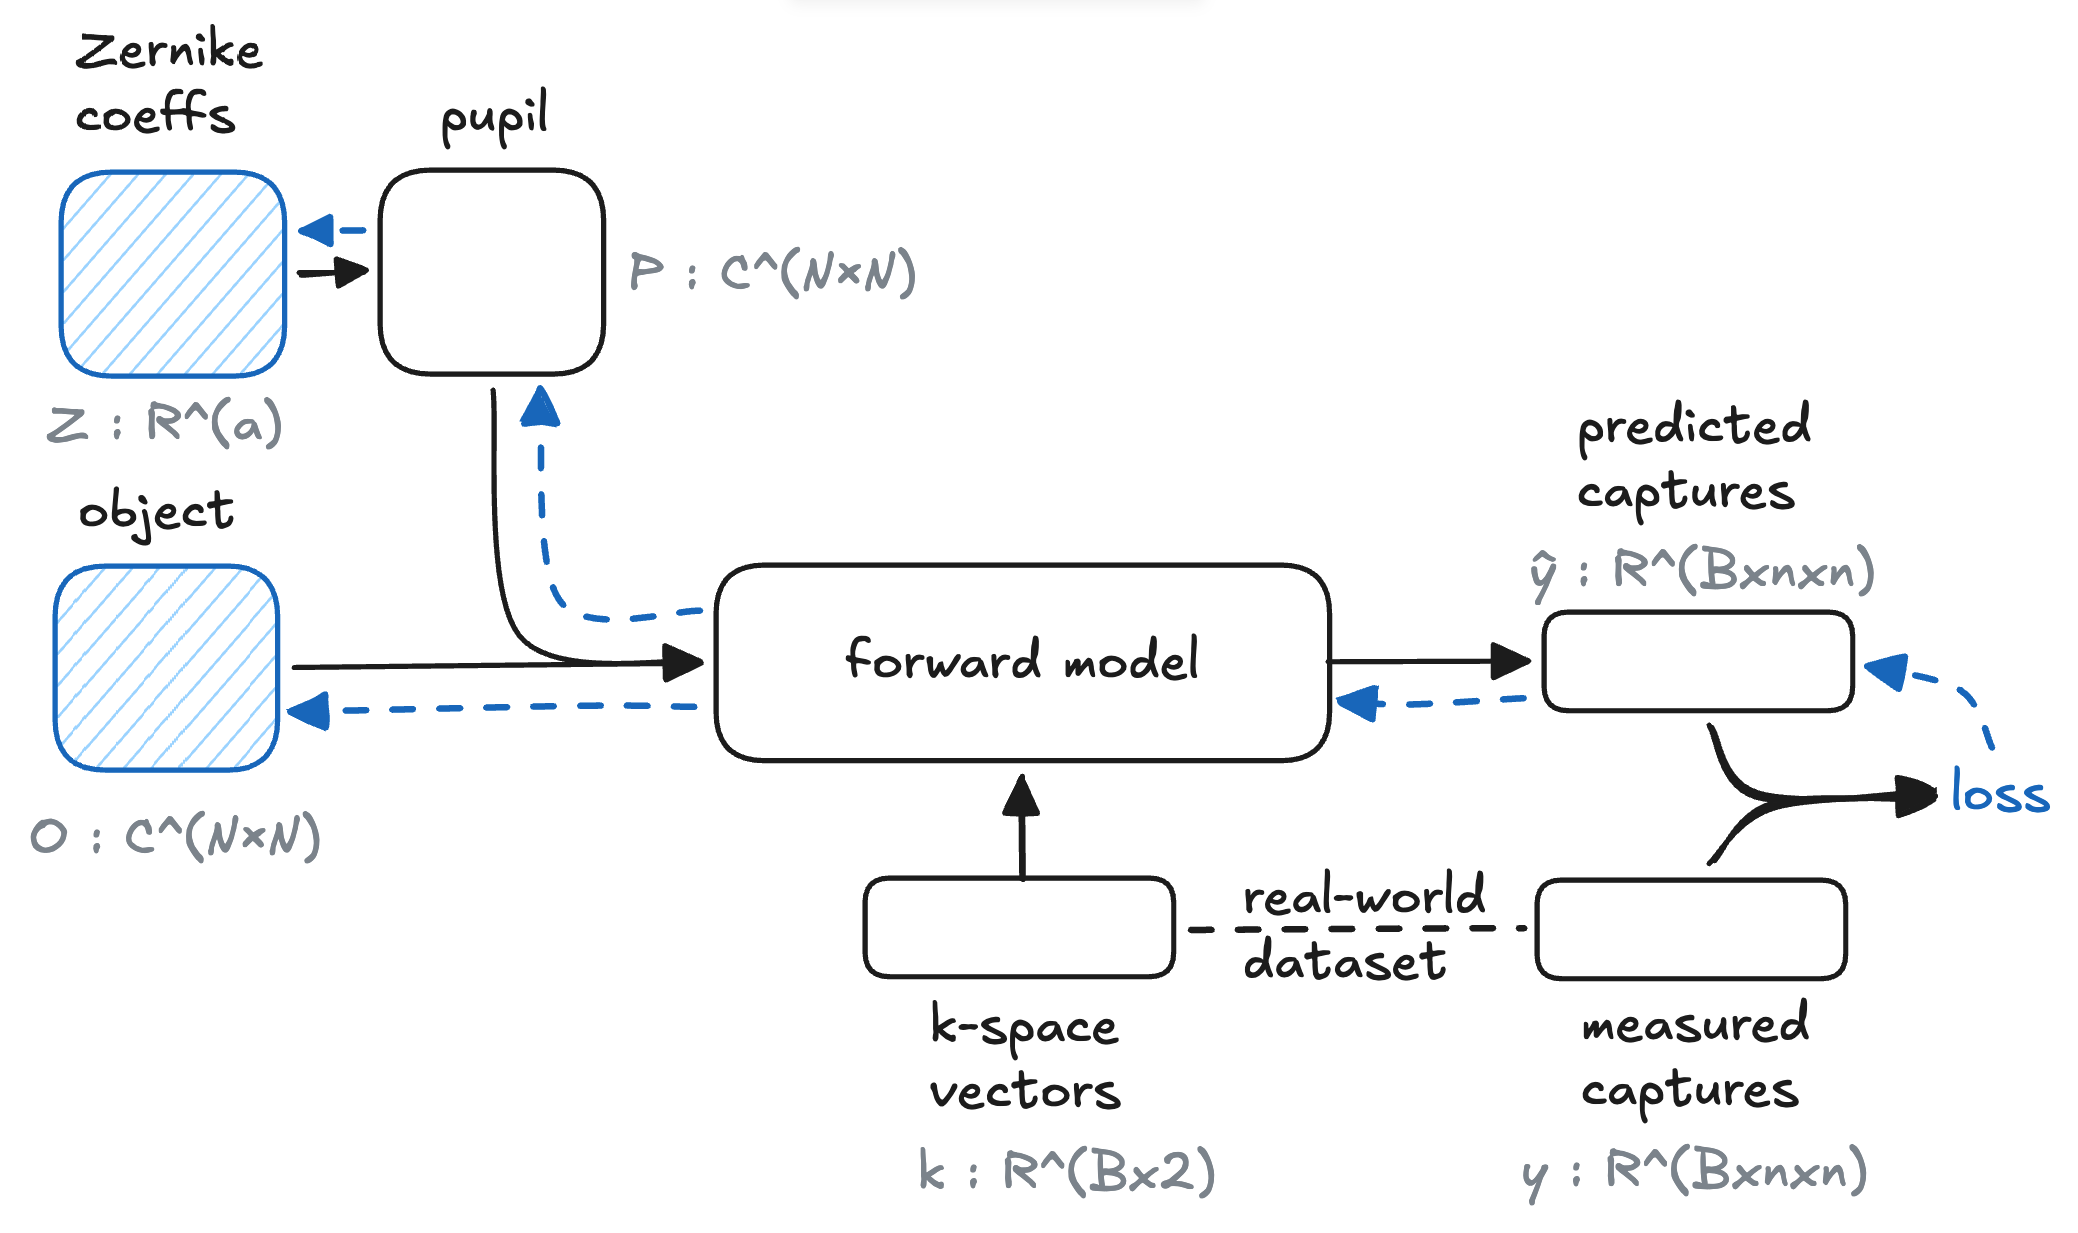
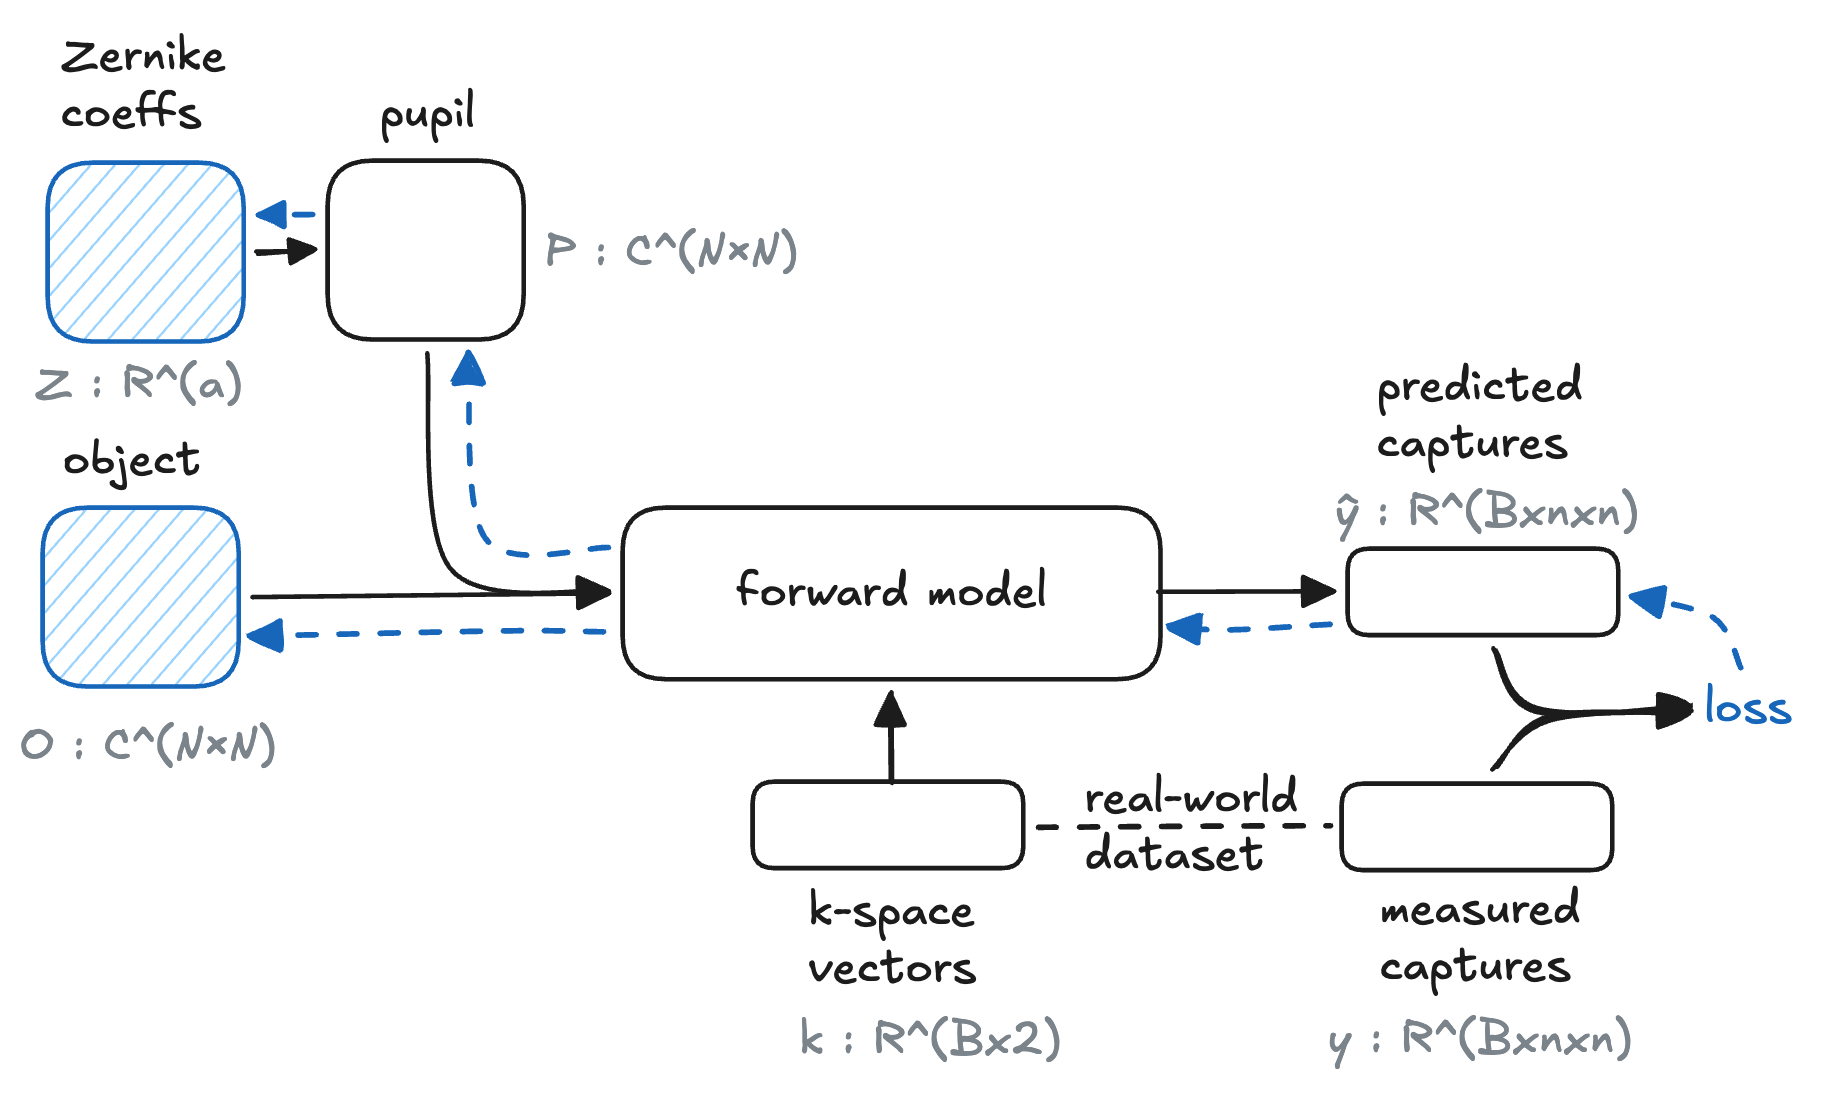
clean up

diff --git a/README.md b/README.md
@@ -37,5 +37,3 @@ Optimization objective:
 ```
 
 ![Block diagram](docs/block-diagram-zernike.png)
-
-This repo uses a custom dataset structure [INFO_JSON_SCHEMA.md](INFO_JSON_SCHEMA.md) / [src/ptych/data/study.py](src/ptych/data/study.py) and pulls from our NextCloud-based data repository [src/ptych/data/download/dataset_cache.py](src/ptych/data/download/dataset_cache.py).
